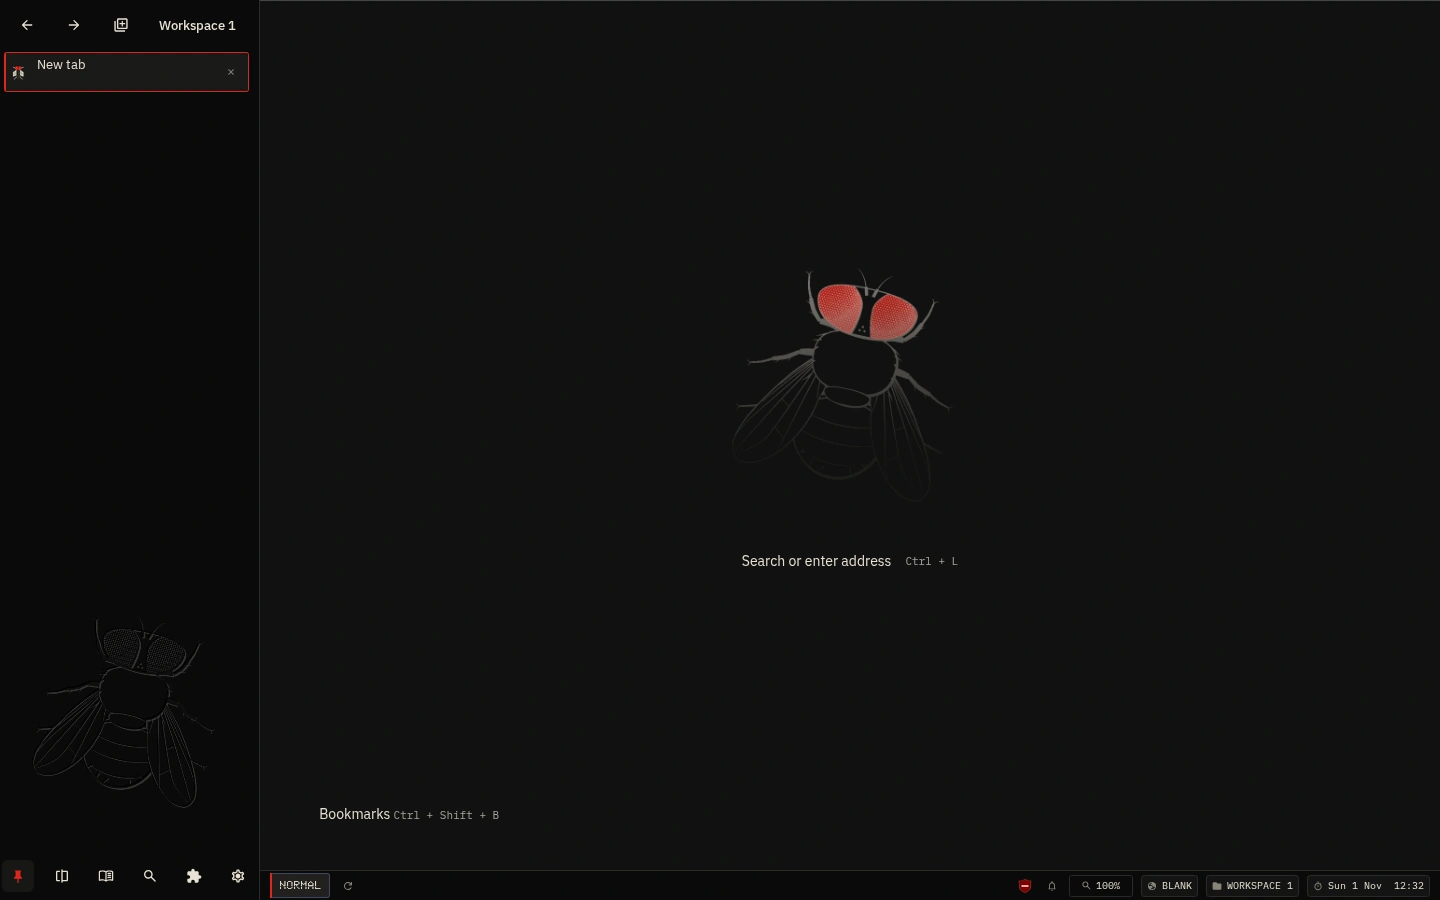
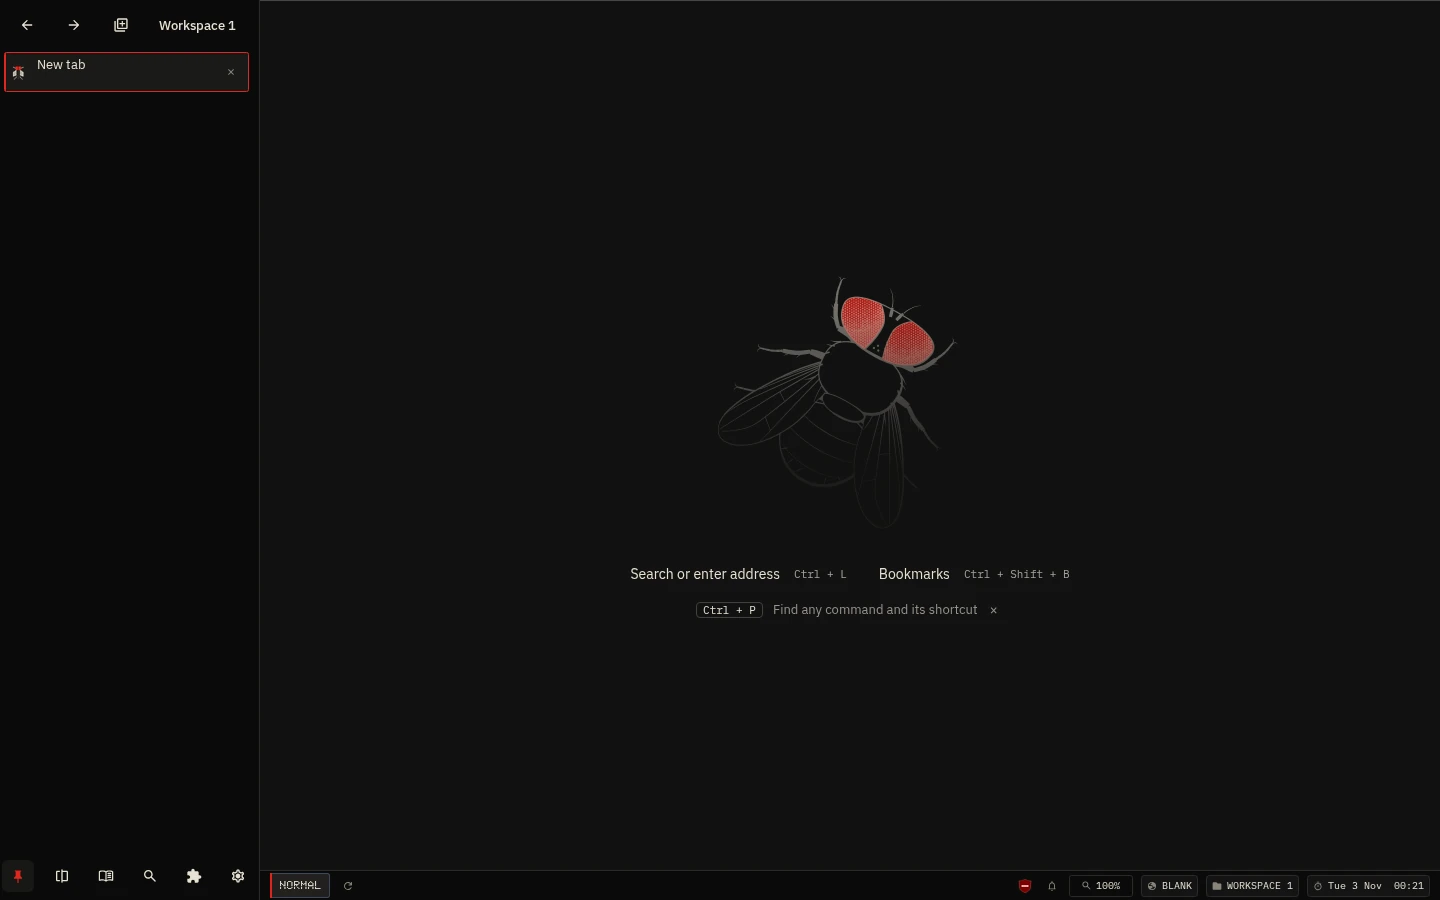
Update Fly screenshot and landing link

diff --git a/index.html b/index.html
@@ -91,13 +91,13 @@
       </div>
 
       <div class="project-item">
-        <a class="project project-featured" href="https://github.com/Arzuparreta/fly-browser">
+        <a class="project project-featured" href="https://arzuparreta.github.io/fly-browser.github.io/">
           <span class="project-name"><img class="project-icon" src="assets/projects/fly-icon.png" width="40" height="40" alt="">Fly Browser</span>
           <span class="project-desc" data-en="A minimal Linux browser with full keyboard control, isolated workspaces and built-in ad blocking.">Navegador minimalista para Linux con control completo por teclado, espacios de trabajo aislados y bloqueo de anuncios integrado.</span>
           <span class="project-arrow" aria-hidden="true">→</span>
         </a>
-        <button class="screenshot-trigger" type="button" data-project="Fly Browser" data-web="https://arzuparreta.github.io/fly-browser/" aria-label="Ampliar captura de Fly Browser" data-en-aria="Enlarge Fly Browser screenshot">
-          <img class="project-screenshot" src="assets/projects/fly.webp?ref=6363438" width="1440" height="900" alt="Página de nueva pestaña de Fly Browser" decoding="async">
+        <button class="screenshot-trigger" type="button" data-project="Fly Browser" data-web="https://arzuparreta.github.io/fly-browser.github.io/" aria-label="Ampliar captura de Fly Browser" data-en-aria="Enlarge Fly Browser screenshot">
+          <img class="project-screenshot" src="assets/projects/fly.webp?ref=12714e6" width="1440" height="900" alt="Página de nueva pestaña de Fly Browser" decoding="async">
           <span class="screenshot-hint" data-en="Enlarge ↗">Ampliar ↗</span>
         </button>
         <a class="project-repo" href="https://github.com/Arzuparreta/fly-browser">Github</a>

diff --git a/assets/projects/README.md b/assets/projects/README.md
@@ -1,14 +1,14 @@
 # Recursos de los proyectos
 
 Copias locales de recursos oficiales integrados. Revisión general: 2026-10-16.
-Captura de Fly Browser actualizada: 2026-11-01.
+Captura de Fly Browser actualizada: 2026-11-03.
 
 | Archivo local | Repositorio | Ruta de origen | Commit de origen | Dimensiones / uso |
 | --- | --- | --- | --- | --- |
 | `soundsible-icon.png` | [soundsible](https://github.com/Arzuparreta/soundsible) | `branding/logo-app.png` | `da09aa59b07417d04ea20f29f6113dc6aaed3ec6` | Icono |
 | `soundsible.webp` | [soundsible](https://github.com/Arzuparreta/soundsible) | `docs/images/screenshots/dark/desktop-library.webp` | `da09aa59b07417d04ea20f29f6113dc6aaed3ec6` | 1920 × 1080 |
 | `fly-icon.png` | [fly-browser](https://github.com/Arzuparreta/fly-browser) | `docs/public/logo.png` | `89a9f568ab365a0b2c9bd81fea70ae8985ad911a` | Icono |
-| `fly.webp` | [fly-browser](https://github.com/Arzuparreta/fly-browser) | `docs/public/screenshots/new-tab.webp` | `636343869ac20edcf710076ce7f585858ed840dd` | 1440 × 900 |
+| `fly.webp` | [Landing de Fly](https://github.com/Arzuparreta/fly-browser.github.io) | `assets/screens/new-tab.webp` | `12714e670153dd6c58ee1ee95acaa2977364b28b` | 1440 × 900 |
 
 Para renovar las capturas, seguir [el procedimiento](../../docs/projects.md).
 Las rutas y los commits describen estas copias; buscar siempre la versión actual
